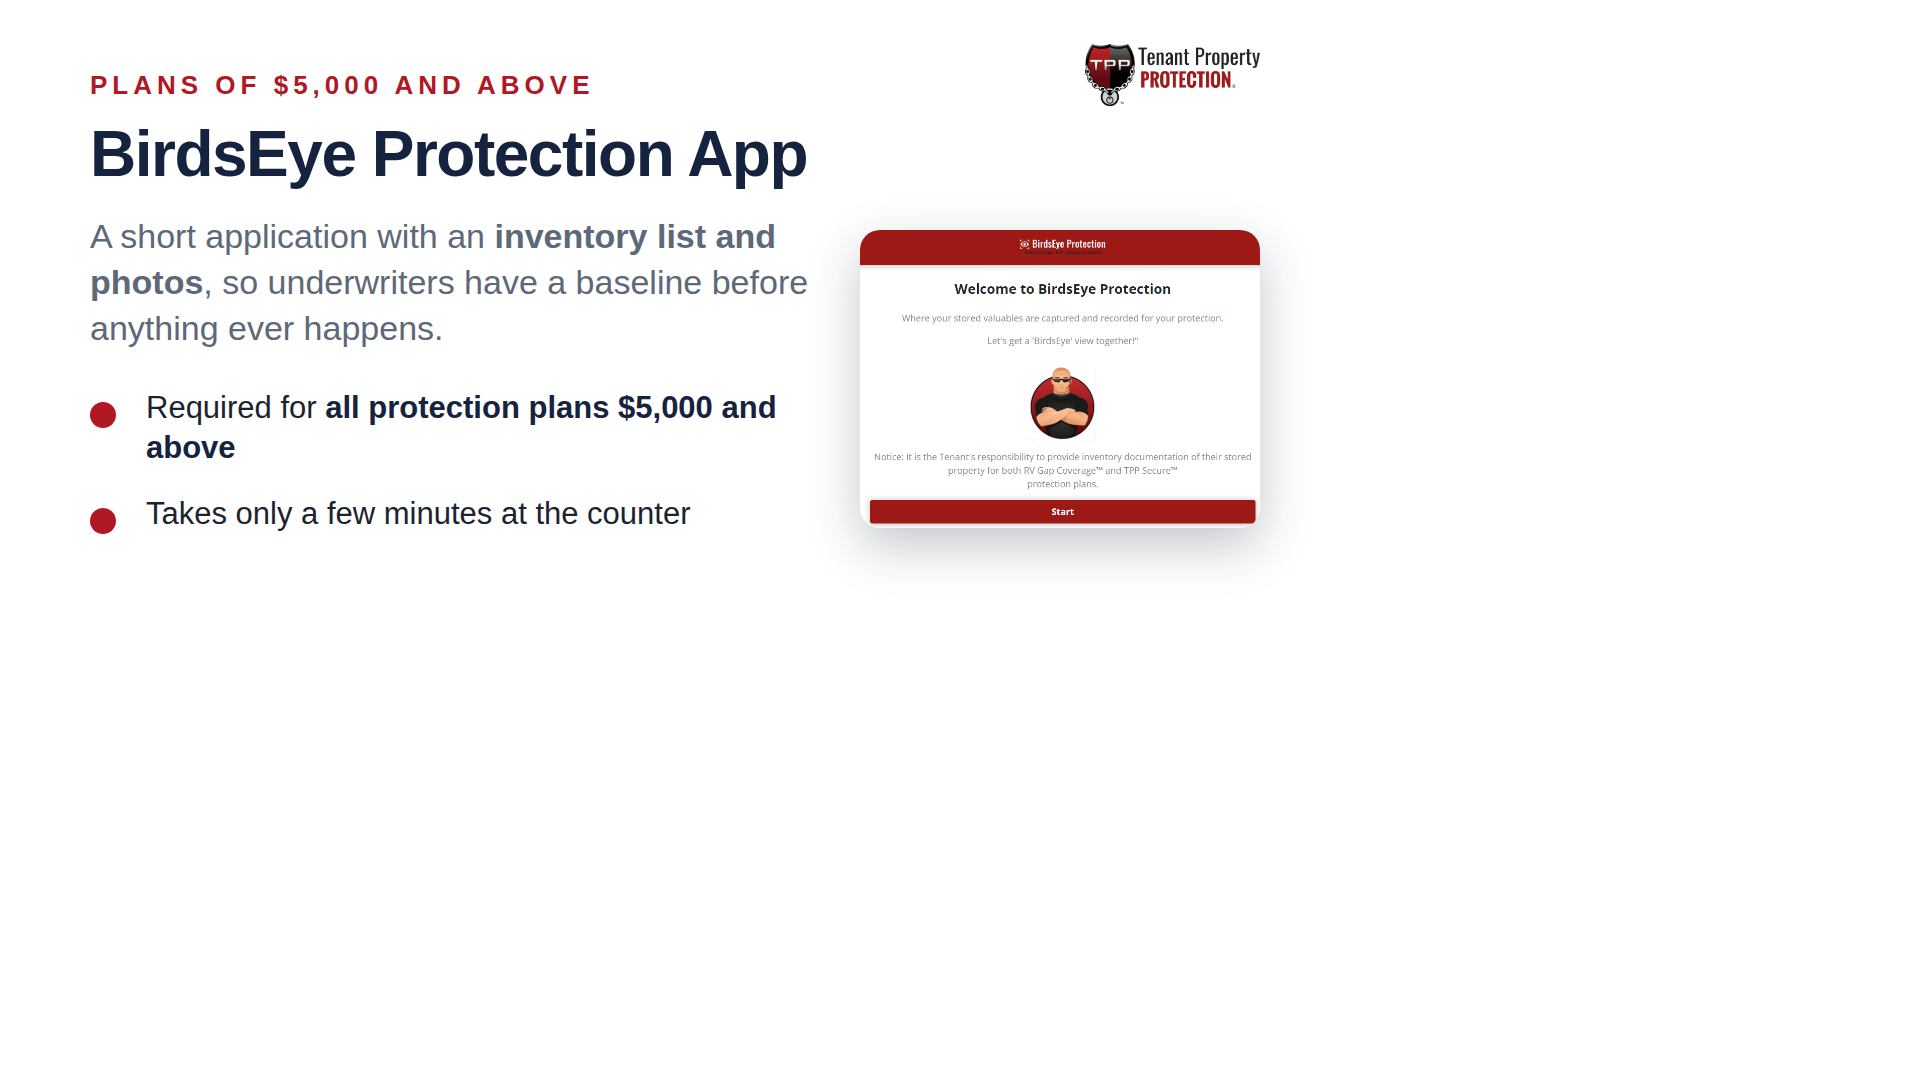
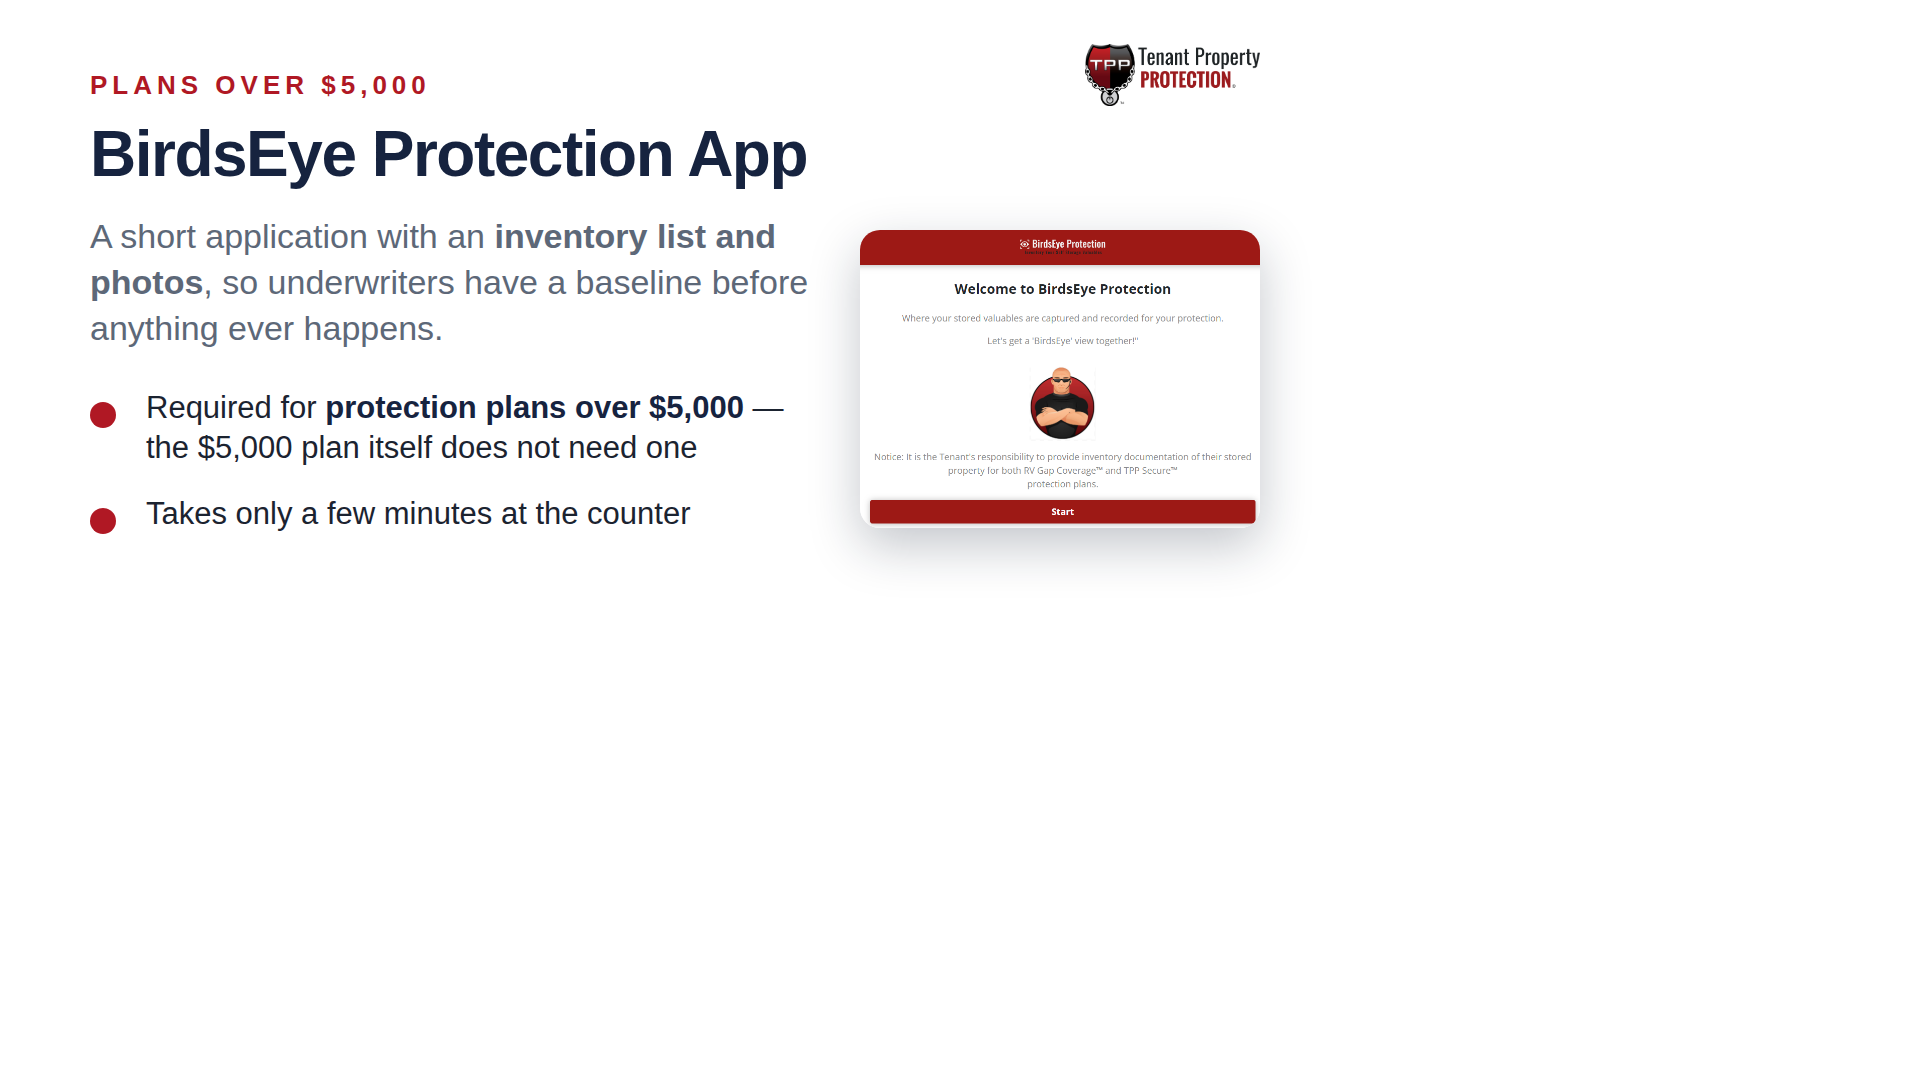
BirdsEye applies over $5,000, not at it
The $5,000 plan is a coverage level we sell; it does not need an
inventory. The quiz already said "above $5,000" from this morning's pass,
but three other places still read "$5,000 and above": the BirdsEye slide,
Meredith's answer about the inventory, and her answer about TPP Secure.
The slide now says so explicitly — the $5,000 plan itself does not need
one — so a manager reading it cannot land on the wrong side of the line.

Meredith's TPP Secure answer was three corrections out of date besides:
it still described losses as processed at fair market value, and still
said coverage and pricing were flexible. It now reads replacement cost at
the same year, make and model, and rates set for the facility with higher
limits on request.

Claude-Session: https://claude.ai/code/session_01SVBeaJqqY1w1riJ9JWxQJ1

Changed region(s): [[0.0625, 0.3667, 0.4062, 0.4278], [0.125, 0.0611, 0.3125, 0.0917]]

diff --git a/index.html b/index.html
@@ -1747,7 +1747,7 @@ const MEREDITH = {
 
   { id:'secure', prog:'sec', t:'Tell me about TPP Secure',
     k:['tpp secure','secure','self storage plan','storage unit plan','secure program'],
-    a:"<b>TPP Secure</b> is our self-storage protection plan. Covered losses are processed at <b>fair market value</b> — the value of the item as it stands, which is different from full replacement cost (replacing it with a new item of similar quality).<br><br>Example plan levels are $2,000, $3,000 and $5,000, and coverage and pricing are flexible. Plans of $5,000 and above need a short inventory through BirdsEye.",
+    a:"<b>TPP Secure</b> is our self-storage protection plan. Covered losses are paid at <b>replacement cost for the same year, make and model</b> — what it costs to replace the item like for like today, which is different from full replacement cost (a brand-new item of similar quality regardless of the age of the lost one).<br><br>Example plan levels are $2,000, $3,000 and $5,000. Rates are set for your facility, and higher limits are available on request. Plans <b>over $5,000</b> need a short inventory through BirdsEye.",
     chips:['secure-covered','pricing','birdseye'] },
 
   { id:'portable', prog:'pcp', t:'Tell me about Portable Container Protection',
@@ -1876,7 +1876,7 @@ const MEREDITH = {
 
   { id:'birdseye', prog:'sec', t:'What is the BirdsEye inventory?',
     k:['birdseye','birds eye','inventory','5000','high limit','application','underwriter','photos of items'],
-    a:"For plans of <b>$5,000 and above</b>, the tenant submits a short application with an inventory list and photos through the BirdsEye tool.<br><br>It gives underwriters a baseline <i>before</i> anything happens, which is what keeps fraudulent claims from driving everyone's costs up. We notify you once the enrollment is approved.",
+    a:"For plans <b>over $5,000</b>, the tenant submits a short application with an inventory list and photos through the BirdsEye tool.<br><br>It gives underwriters a baseline <i>before</i> anything happens, which is what keeps fraudulent claims from driving everyone's costs up. We notify you once the enrollment is approved.",
     chips:['secure','pricing','claim-docs'] },
 
   { id:'onboarding', t:'What happens during onboarding?',

diff --git a/tools/slides/gen_secure.py b/tools/slides/gen_secure.py
@@ -123,11 +123,11 @@ add('06-present', f"""<img class='brand' src='{LOGO}'>
 
 add('07-birdseye', f"""<img class='brand' src='{LOGO}'>
 <img class='photo' src='{BIRD}'>
-<div class='kick'>Plans of $5,000 and above</div>
+<div class='kick'>Plans over $5,000</div>
 <h1>BirdsEye Protection App</h1>
 <div class='sub'>A short application with an <b>inventory list and photos</b>, so underwriters
 have a baseline before anything ever happens.</div>
-<ul><li>Required for <b>all protection plans $5,000 and above</b></li>
+<ul><li>Required for <b>protection plans over $5,000</b> &mdash; the $5,000 plan itself does not need one</li>
 <li>Takes only a few minutes at the counter</li></ul>""")
 
 add('08-covered', f"""<img class='brand' src='{LOGO}'>
